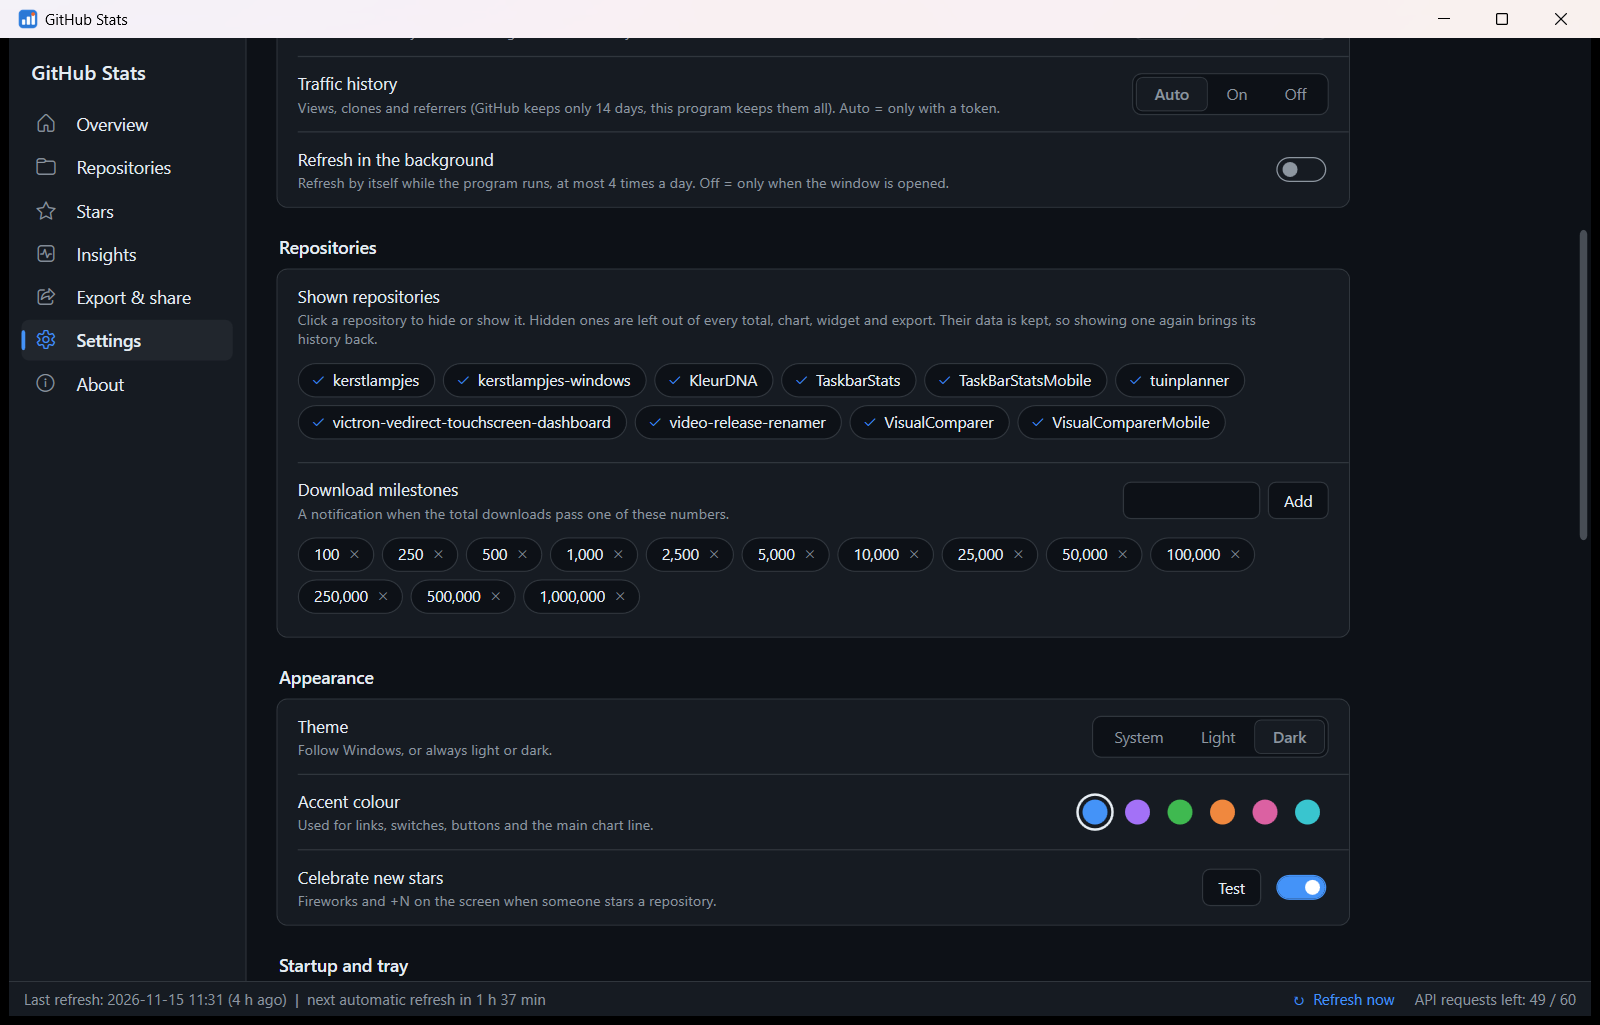
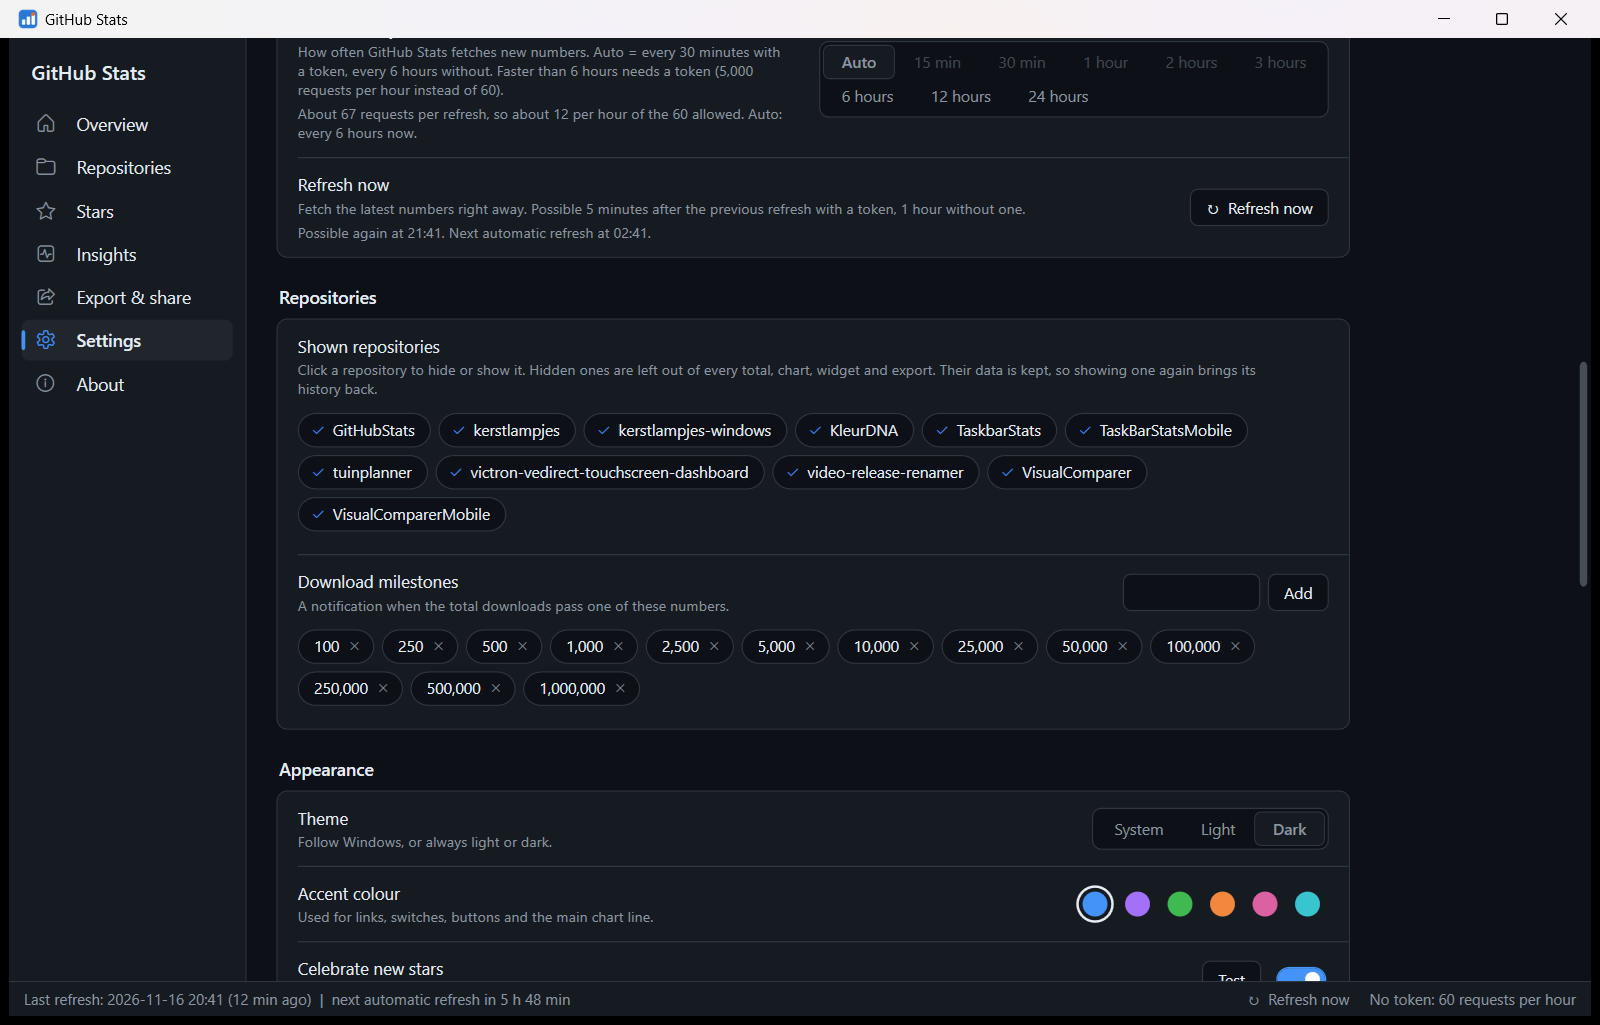
Refresh README screenshots, fix API counter without a token

diff --git a/Core/Dashboard.cs b/Core/Dashboard.cs
@@ -260,7 +260,9 @@ internal sealed class Dashboard
         db.TracksTraffic = app.Cfg.TrackTraffic;
         bool rateIsCurrent = rt != null && rt.Limit > 0 && (d.Auth == app.AuthFp || rt.Checked == 0 && !db.HasToken);
         db.RateText = rateIsCurrent ? "API requests left: " + N(rt!.Remaining) + " / " + N(rt.Limit)
-            : db.HasToken ? "Token set: up to 5,000 requests per hour" : rt != null && rt.Limit > 0 ? "API requests left: " + N(rt.Remaining) + " / " + N(rt.Limit) : "";
+            : db.HasToken ? "Token set: up to 5,000 requests per hour"
+            : rt != null && rt.Limit > 0 && rt.Limit <= 60 ? "API requests left: " + N(rt.Remaining) + " / " + N(rt.Limit)
+            : "No token: 60 requests per hour";
 
         var prog = new List<string>();
         if (d.Pending.Count > 0) prog.Add("release data: " + N(Math.Max(0, repos.Count - d.Pending.Count)) + " of " + N(repos.Count) + " repositories");

diff --git a/README.md b/README.md
@@ -55,12 +55,15 @@ history on your own PC and tells you when something happens. No website, no acco
 
 <table>
 <tr>
+<td colspan="2"><img src="docs/screenshots/overview-panels.png" alt="Overview panels"><br><sub><b>Overview</b>: every number on one page, with dates along the chart and panels for top repositories, downloads per day, latest stars, traffic and more</sub></td>
+</tr>
+<tr>
 <td width="50%"><img src="docs/screenshots/repositories.png" alt="Repositories"><br><sub><b>Repositories</b>: search, sort and a chart per repo</sub></td>
 <td width="50%"><img src="docs/screenshots/insights.png" alt="Insights"><br><sub><b>Insights</b>: top files and downloads per platform</sub></td>
 </tr>
 <tr>
-<td><img src="docs/screenshots/settings.png" alt="Settings"><br><sub><b>Settings</b>: token test, data options, auto-save</sub></td>
-<td><img src="docs/screenshots/settings-repos.png" alt="Settings: repositories"><br><sub><b>Hide repositories</b>, milestones and accent colours</sub></td>
+<td><img src="docs/screenshots/settings.png" alt="Settings"><br><sub><b>Settings</b>: what your token can read, with pre-filled GitHub links</sub></td>
+<td><img src="docs/screenshots/settings-repos.png" alt="Settings: repositories"><br><sub><b>Refresh every</b> (Auto, 15 min to 24 h), hide repositories, milestones</sub></td>
 </tr>
 <tr>
 <td colspan="2"><img src="docs/screenshots/widget-styles.png" alt="Ten widget styles"><br><sub><b>Desktop widget</b>: ten styles to choose from</sub></td>
